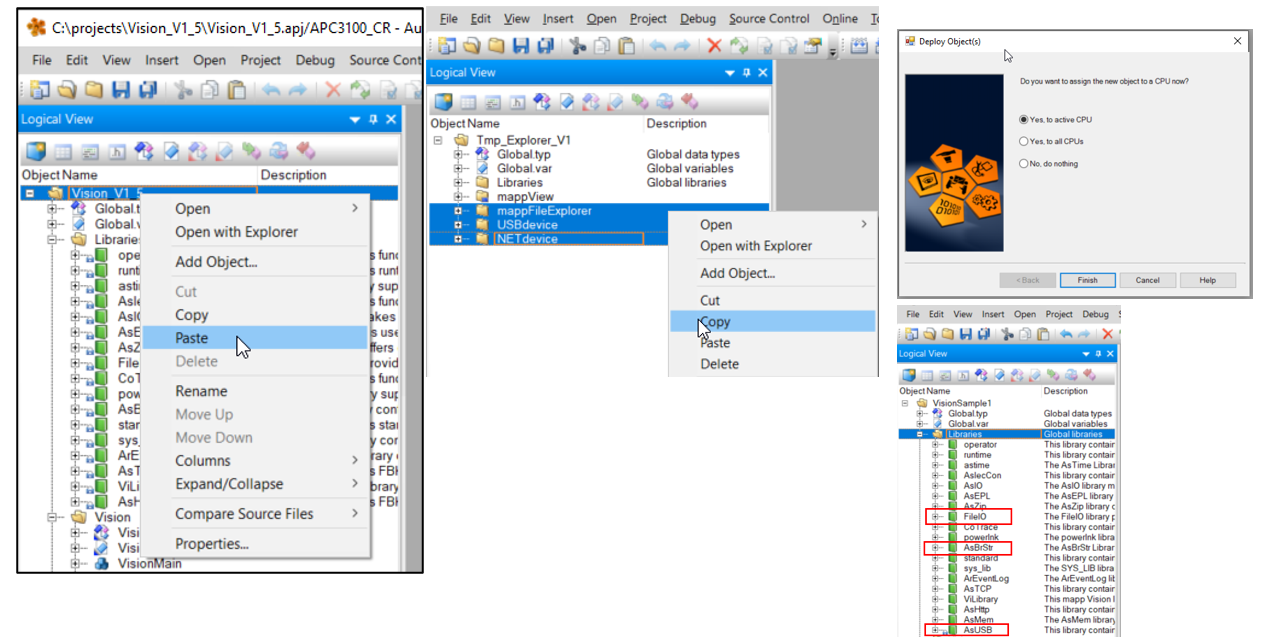
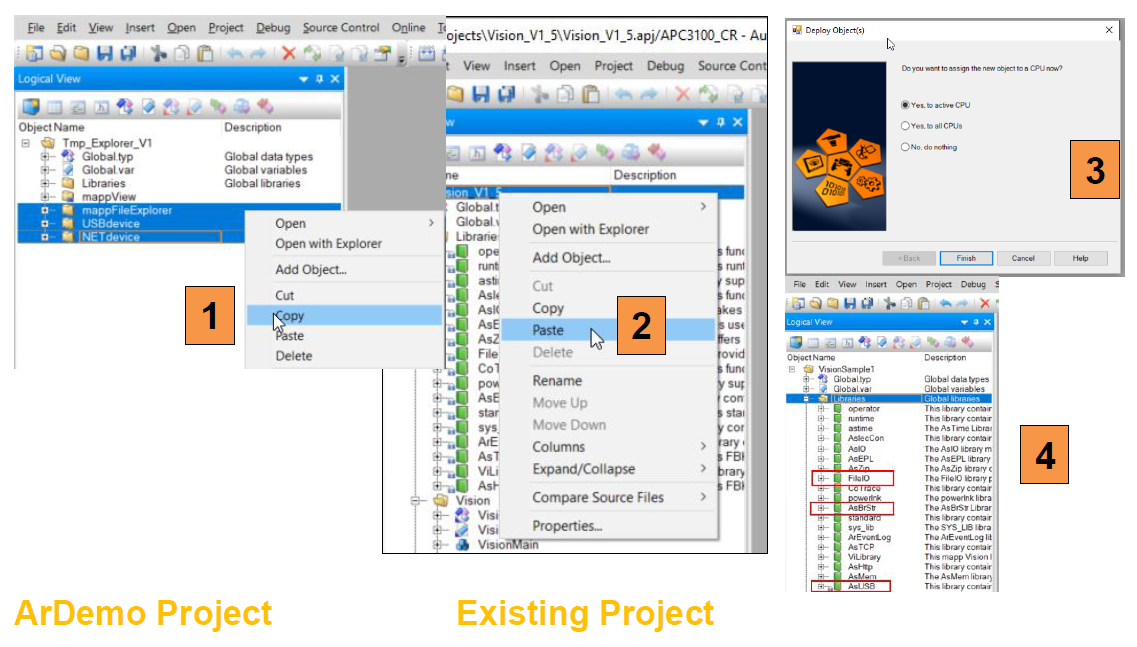
Deployed 91f9172 with MkDocs version: 1.6.1

diff --git a/import.html b/import.html
@@ -303,8 +303,10 @@
 
   <h1>Import</h1>
 
-<p>This guide shows how to import the demo project into an existing project</p>
-<p>Open the demo project and the exiting project side by side. Go to the logical view in both projects.</p>
+<p>This guide shows how to import the demo project into an existing project. </p>
+<p>Open the windows file explorer and navigate to the folder <code>\mappExplorer\Logical\mappView\Widgets</code> in the sample project. Copy the folder <code>brXtended</code> to the same directory in your existing project.</p>
+<p><img alt="" src="images/import_0.png" /></p>
+<p>Start Automation Studio and open the demo project. Start a second instance of Automation Studio and open your exiting project so that you have both project open side by side. Go to the logical view in both projects.</p>
 <ol>
 <li>Copy the packages mappFileExplorer, USBdevice and NETdevice from the demo project</li>
 <li>Paste the packages into the existing project at the top</li>
